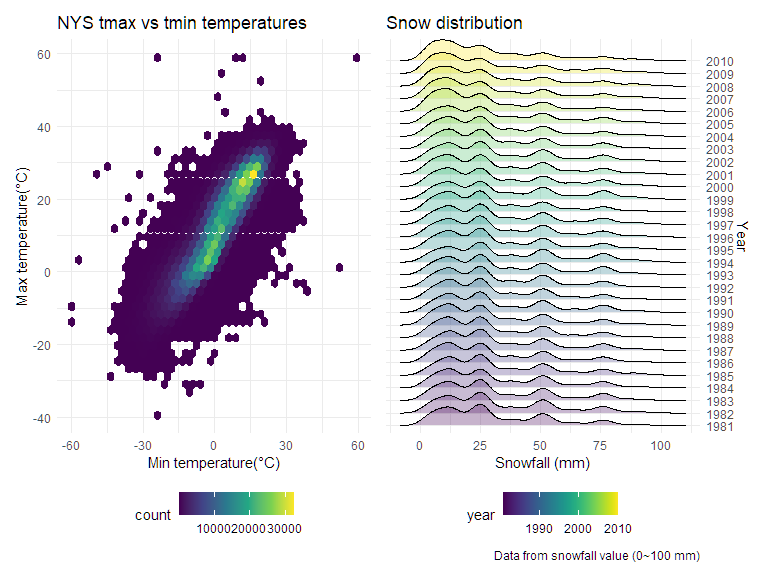
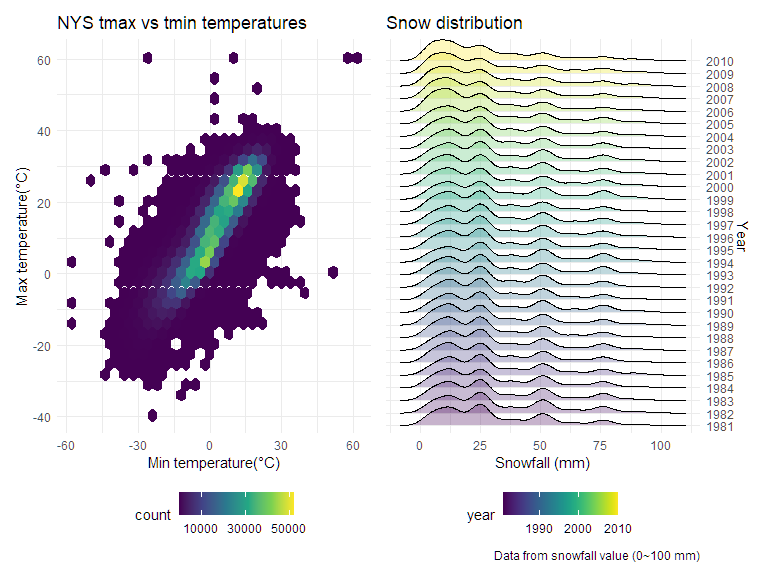
p3: minor change

diff --git a/p8105_hw3_tz2520.md b/p8105_hw3_tz2520.md
@@ -372,11 +372,13 @@ is about -14°C and the most outlier for July is about 14°C.
 ``` r
 tmax_tmin = 
   ggplot(noaa_tidy, aes(x = tmin, y = tmax)) +
-    geom_hex(bins = 40) +
+    geom_hex() +
     labs(
       title = "NYS tmax vs tmin temperatures",
       x = "Min temperature(°C)",
       y = "Max temperature(°C)") +
+    scale_fill_continuous(
+    breaks = c(10000, 30000, 50000)) +
     theme(legend.position = "bottom")
 ```
 
